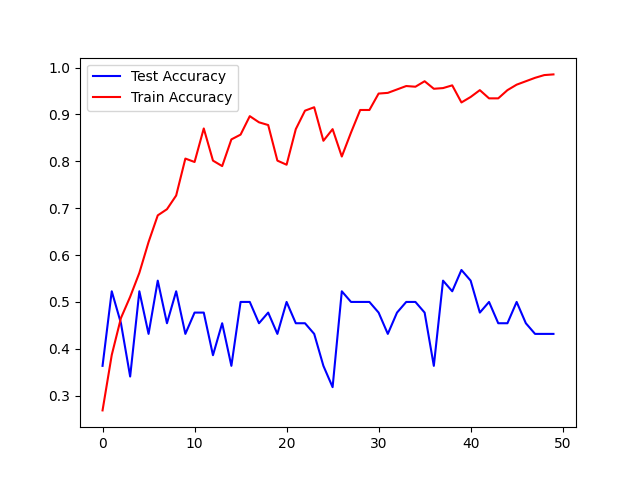
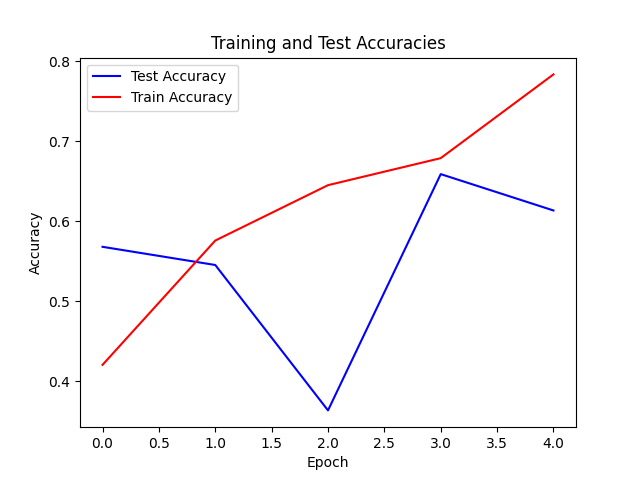
Modified train.py to run only the MFCC network. Accuracies.png is the updated plot for this new network.

diff --git a/train.py b/train.py
@@ -36,56 +36,56 @@ for ind in range(1, 730):
     chroma = np.load("train_chroma_moresamps/" + i + ".npy")
     mfcc = mfcc.reshape((mfcc.shape[0]*mfcc.shape[1]))
     chroma = chroma.reshape((chroma.shape[0]*chroma.shape[1]))
-    if 209 < ind < 221: # or 368 < ind < 380 or 537 < ind < 549 or 718 < ind < 730:
+    if 0 < ind < 12: # or 368 < ind < 380 or 537 < ind < 549 or 718 < ind < 730:
         sc_test.append(sc)
         sb_test.append(sb)
         mfcc_test.append(mfcc)
         chroma_test.append(chroma)
         label = 0 # Happy
         test_targets.append(label)
-    elif 368 < ind < 380:
+    elif 220 < ind < 232:
         sc_test.append(sc)
         sb_test.append(sb)
         mfcc_test.append(mfcc)
         chroma_test.append(chroma)
         label = 1 # Sad
         test_targets.append(label)
-    elif 537 < ind < 549:
+    elif 379 < ind < 391:
         sc_test.append(sc)
         sb_test.append(sb)
         mfcc_test.append(mfcc)
         chroma_test.append(chroma)
         label = 2 # Calm
         test_targets.append(label)
-    elif 718 < ind < 730:
+    elif 548 < ind < 560:
         sc_test.append(sc)
         sb_test.append(sb)
         mfcc_test.append(mfcc)
         chroma_test.append(chroma)
         label = 3 # Hype
         test_targets.append(label)
-    elif ind <= 209:
+    elif 12 <= ind <= 159:
         sc_train.append(sc)
         sb_train.append(sb)
         mfcc_train.append(mfcc)
         chroma_train.append(chroma)
         label = 0 # Happy
         train_targets.append(label)
-    elif 221 <= ind <= 368:
+    elif 232 <= ind <= 379:
         sc_train.append(sc)
         sb_train.append(sb)
         mfcc_train.append(mfcc)
         chroma_train.append(chroma)
         label = 1 # Sad
         train_targets.append(label)
-    elif 380 <= ind <= 537:
+    elif 391 <= ind <= 391+147:
         sc_train.append(sc)
         sb_train.append(sb)
         mfcc_train.append(mfcc)
         chroma_train.append(chroma)
         label = 2 # Calm
         train_targets.append(label)
-    elif 549 <= ind <= 718:
+    elif 560 <= ind <= 560+147:
         sc_train.append(sc)
         sb_train.append(sb)
         mfcc_train.append(mfcc)
@@ -103,40 +103,40 @@ sb_net.apply(weights_init)
 mfcc_net.apply(weights_init)
 chroma_net.apply(weights_init)
 
-sc_data = MyDataset(sc_train, train_targets)
-sb_data = MyDataset(sb_train, train_targets)
+# sc_data = MyDataset(sc_train, train_targets)
+# sb_data = MyDataset(sb_train, train_targets)
 mfcc_data = MyDataset(mfcc_train, train_targets)
-chroma_data = MyDataset(chroma_train, train_targets)
+#chroma_data = MyDataset(chroma_train, train_targets)
 
-sc_test = MyDataset(sc_test, test_targets)
-sb_test = MyDataset(sb_test, test_targets)
+#sc_test = MyDataset(sc_test, test_targets)
+#sb_test = MyDataset(sb_test, test_targets)
 mfcc_test = MyDataset(mfcc_test, test_targets)
-chroma_test = MyDataset(chroma_test, test_targets)
+#chroma_test = MyDataset(chroma_test, test_targets)
 
 batch_size = 40
 
-num_epochs = 20
+num_epochs = 5
 
 save_dir = "weights"
 
 learning_rate = 0.0001
 
 train_loader = DataLoader(
-    ConcatDataset(sc_data, sb_data, mfcc_data, chroma_data),
+    mfcc_data,
     batch_size=batch_size,
     shuffle=True
 )
 
 test_loader = DataLoader(
-    ConcatDataset(sc_test, sb_test, mfcc_test, chroma_test),
+    mfcc_test,
     batch_size=batch_size,
     shuffle=True
 )
 
-optim_sc = optim.Adam(sc_net.parameters(), lr=learning_rate, betas=(0.5, 0.999))
-optim_sb = optim.Adam(sb_net.parameters(), lr=learning_rate, betas=(0.5, 0.999))
+#optim_sc = optim.Adam(sc_net.parameters(), lr=learning_rate, betas=(0.5, 0.999))
+#optim_sb = optim.Adam(sb_net.parameters(), lr=learning_rate, betas=(0.5, 0.999))
 optim_mfcc = optim.Adam(mfcc_net.parameters(), lr=learning_rate, betas=(0.5, 0.999))
-optim_chroma = optim.Adam(chroma_net.parameters(), lr=learning_rate, betas=(0.5, 0.999))
+#optim_chroma = optim.Adam(chroma_net.parameters(), lr=learning_rate, betas=(0.5, 0.999))
 
 loss_traj_sc = []
 loss_traj_sb = []
@@ -159,50 +159,20 @@ criterion = nn.CrossEntropyLoss()
 for epoch in range(num_epochs):
     print("Epoch #" + str(epoch+1) + "/" + str(num_epochs))
     
-    sc_net.train()
-    sb_net.train()
+    #sc_net.train()
+    #sb_net.train()
     mfcc_net.train()
-    chroma_net.train()
-
-    running_sc_loss = 0.0
-    running_sc_loss_test = 0.0
-    running_sc_corrects = 0
-    running_sc_corrects_test = 0
-
-    running_sb_loss = 0.0
-    running_sb_loss_test = 0.0
-    running_sb_corrects = 0
-    running_sb_corrects_test = 0
+    #chroma_net.train()
 
     running_mfcc_loss = 0.0
     running_mfcc_loss_test = 0.0
     running_mfcc_corrects = 0
     running_mfcc_corrects_test = 0
 
-    running_chroma_loss = 0.0
-    running_chroma_loss_test = 0.0
-    running_chroma_corrects = 0
-    running_chroma_corrects_test = 0
-
     running_corrects = 0
     running_corrects_test = 0
 
-    for i, ((in_sc, label_sc), (in_sb, label_sb), (in_mfcc, label_mfcc), (in_chroma, label_chroma)) in enumerate(train_loader):            
-        # SC
-        sc_net.zero_grad()
-        out_sc = sc_net(in_sc.float())
-        out_sc_max, sc_preds = torch.max(out_sc, dim=1)
-        loss_sc = criterion(out_sc, label_sc)
-        loss_sc.backward()
-        optim_sc.step()
-
-        # SB
-        sb_net.zero_grad()
-        out_sb = sb_net(in_sb.float())
-        out_sb_max, sb_preds = torch.max(out_sb, dim=1)
-        loss_sb = criterion(out_sb, label_sb)
-        loss_sb.backward()
-        optim_sb.step()
+    for i, ((in_mfcc, label_mfcc)) in enumerate(train_loader):            
 
         # MFCC
         mfcc_net.zero_grad()
@@ -212,47 +182,16 @@ for epoch in range(num_epochs):
         loss_mfcc.backward()
         optim_mfcc.step()
 
-        # CHROMA
-        chroma_net.zero_grad()
-        out_chroma = chroma_net(in_chroma.float())
-        out_chroma_max, chroma_preds = torch.max(out_chroma, dim=1)
-        loss_chroma = criterion(out_chroma, label_chroma)
-        loss_chroma.backward()
-        optim_chroma.step()
+        out_max, preds = torch.max(out_mfcc, dim=1)
 
-        out_max, preds = torch.max(out_sc+out_sb+out_mfcc+out_chroma, dim=1)
-
-        running_corrects += torch.sum(preds == label_sc) # Doesn't matter which label since they're the same
-
-        running_sc_loss += loss_sc.item() * in_sc.size(0)
-        running_sc_corrects += torch.sum(sc_preds == label_sc)
-
-        running_sb_loss += loss_sb.item() * in_sb.size(0)
-        running_sb_corrects += torch.sum(sb_preds == label_sb)
+        running_corrects += torch.sum(preds == label_mfcc) # Doesn't matter which label since they're the same
 
         running_mfcc_loss += loss_mfcc.item() * in_mfcc.size(0)
         running_mfcc_corrects += torch.sum(mfcc_preds == label_mfcc)
 
-        running_chroma_loss += loss_chroma.item() * in_chroma.size(0)
-        running_chroma_corrects += torch.sum(chroma_preds == label_chroma)
-    
-    sc_net.eval()
-    sb_net.eval()
     mfcc_net.eval()
-    chroma_net.eval()
 
-    for i, ((in_sc, label_sc), (in_sb, label_sb), (in_mfcc, label_mfcc), (in_chroma, label_chroma)) in enumerate(test_loader):  
-        # SC
-        sc_net.zero_grad()
-        out_sc = sc_net(in_sc.float())
-        out_sc_max, sc_preds = torch.max(out_sc, dim=1)
-        loss_sc = criterion(out_sc, label_sc)
-
-        # SB
-        sb_net.zero_grad()
-        out_sb = sb_net(in_sb.float())
-        out_sb_max, sb_preds = torch.max(out_sb, dim=1)
-        loss_sb = criterion(out_sb, label_sb)
+    for i, ((in_mfcc, label_mfcc)) in enumerate(test_loader):  
 
         # MFCC
         mfcc_net.zero_grad()
@@ -260,101 +199,61 @@ for epoch in range(num_epochs):
         out_mfcc_max, mfcc_preds = torch.max(out_mfcc, dim=1)
         loss_mfcc = criterion(out_mfcc, label_mfcc)
 
-        # CHROMA
-        chroma_net.zero_grad()
-        out_chroma = chroma_net(in_chroma.float())
-        out_chroma_max, chroma_preds = torch.max(out_chroma, dim=1)
-        loss_chroma = criterion(out_chroma, label_chroma)
+        out_max, preds = torch.max(out_mfcc, dim=1)
 
-        out_max, preds = torch.max(out_sc+out_sb+out_mfcc+out_chroma, dim=1)
-
-        running_corrects_test += torch.sum(preds == label_sc) # Doesn't matter which label since they're the same
-
-        running_sc_loss_test += loss_sc.item() * in_sc.size(0)
-        running_sc_corrects_test += torch.sum(sc_preds == label_sc)
-
-        running_sb_loss_test += loss_sb.item() * in_sb.size(0)
-        running_sb_corrects_test += torch.sum(sb_preds == label_sb)
+        running_corrects_test += torch.sum(preds == label_mfcc) # Doesn't matter which label since they're the same
 
         running_mfcc_loss_test += loss_mfcc.item() * in_mfcc.size(0)
         running_mfcc_corrects_test += torch.sum(mfcc_preds == label_mfcc)
 
-        running_chroma_loss_test += loss_chroma.item() * in_chroma.size(0)
-        running_chroma_corrects_test += torch.sum(chroma_preds == label_chroma)
-
         # Compute and save confusion matrix for first batch each epoch
         if i == 0:
-            c = confusion_matrix(label_sc.detach().numpy(), preds, labels=[0, 1, 2, 3])
+            c = confusion_matrix(label_mfcc.detach().numpy(), mfcc_preds, labels=[0, 1, 2, 3])
             plt.imshow(c, interpolation='nearest')
             tick_marks = np.arange(4)
             plt.xticks(tick_marks, ["happy", "sad", "calm", "hype"], rotation=45)
             plt.yticks(tick_marks, ["happy", "sad", "calm", "hype"])
             plt.title('Confusion Matrix'.format(epoch))
-            plt.savefig(f'conf_mats/conf_mat_epoch{epoch}.png')
+            plt.savefig(f'conf_mats/conf_mat_mfcc{epoch}.png')
             plt.show()
-    
-    num_samples_train =  729-44
+
+    num_samples_train =  148*4
     num_samples_test =  44
 
     # Total loss from all NN's
-    epoch_train_loss = (running_sc_loss+running_sb_loss+running_mfcc_loss+running_chroma_loss) / num_samples_train
-    epoch_test_loss = (running_sc_loss_test+running_sb_loss_test+running_mfcc_loss_test+running_chroma_loss_test) / num_samples_test
 
     # Calculating average accuracy over the 4 NN's
-    train_epoch_acc = (running_chroma_corrects.double()+running_mfcc_corrects.double()+running_sb_corrects.double()+running_sc_corrects.double()) / num_samples_train / 4
-    test_epoch_acc = (running_chroma_corrects_test+running_mfcc_corrects_test+running_sb_corrects_test+running_sc_corrects_test) / num_samples_test / 4
+    #train_epoch_acc = (running_chroma_corrects.double()+running_mfcc_corrects.double()+running_sb_corrects.double()+running_sc_corrects.double()) / num_samples_train / 4
+    #test_epoch_acc = (running_chroma_corrects_test+running_mfcc_corrects_test+running_sb_corrects_test+running_sc_corrects_test) / num_samples_test / 4
+    train_epoch_acc = (running_mfcc_corrects.double()) / num_samples_train
+    test_epoch_acc = (running_mfcc_corrects_test) / num_samples_test
 
     train_acc.append(train_epoch_acc.item())
     test_acc.append(test_epoch_acc.item())
 
     # Taking individual accuracies
-    sc_test_acc = running_sc_corrects_test.double() / num_samples_test
-    sb_test_acc = running_sb_corrects_test.double() / num_samples_test
     mfcc_test_acc = running_mfcc_corrects_test.double() / num_samples_test
-    chroma_test_acc = running_chroma_corrects_test.double() / num_samples_test
 
-    sc_acc.append(sc_test_acc.item())
-    sb_acc.append(sb_test_acc.item())
     mfcc_acc.append(mfcc_test_acc.item())
-    chroma_acc.append(chroma_test_acc.item())
 
     # Calculating accuracies from adding NN outputs before taking max
     epoch_acc_train = running_corrects / num_samples_train
     epoch_acc_test = running_corrects_test / num_samples_test
 
-    print('{} Loss: {:.4f} Acc: {:.4f}'.format('train', epoch_train_loss, epoch_acc_train))
-    print('{} Loss: {:.4f} Acc: {:.4f}'.format('test', epoch_test_loss, epoch_acc_test))
+    print('{} Acc: {:.4f}'.format('train', train_epoch_acc))
+    print('{} Acc: {:.4f}'.format('test', test_epoch_acc))
     #print("SC:" + str(sc_test_acc.item()) + " SB:" + str(sb_test_acc.item()) + " MFCC:" + str(mfcc_test_acc.item()) + " Chroma:" + str(chroma_test_acc.item()))
 
-loss_traj_sc.append(running_sc_loss_test)
-loss_traj_sb.append(running_sb_loss_test)
 loss_traj_mfcc.append(running_mfcc_loss_test)
-loss_traj_chroma.append(running_chroma_loss_test)
 
-torch.save(sc_net.state_dict(), "sc_net_model2.pt")
-torch.save(sb_net.state_dict(), "sb_net_model2.pt")
 torch.save(mfcc_net.state_dict(), "mfcc_net_model2.pt")
-torch.save(chroma_net.state_dict(), "chroma_net_model2.pt")
-
-fig, axes = plt.subplots()
-axes.plot(loss_traj_sc, 'b', label="Spectral Centroid Loss")
-axes.set_title("Spectral Centroid Network Loss vs Epoch")
-
-axes.plot(loss_traj_sb, 'r', label="Spectral Bandwidth Loss")
-axes.set_title("Spectral Bandwidth Network Loss vs Epoch")
-
-axes.plot(loss_traj_mfcc, 'g', label="MFCC Loss")
-axes.set_title("MFCC Network Loss vs Epoch")
-
-axes.plot(loss_traj_chroma, 'p', label="Chroma Loss")
-axes.set_title("Chroma Network Loss vs Epoch")
-
-fig.savefig("Loss_plots.png")
-plt.show()
 
 fig2, ax2 = plt.subplots()
 ax2.plot(test_acc, 'b', label='Test Accuracy')
 ax2.plot(train_acc, 'r', label='Train Accuracy')
+ax2.set_title('Training and Test Accuracies')
+ax2.set_xlabel('Epoch')
+ax2.set_ylabel('Accuracy')
 ax2.legend()
 
 fig2.savefig("Accuracies.png")
